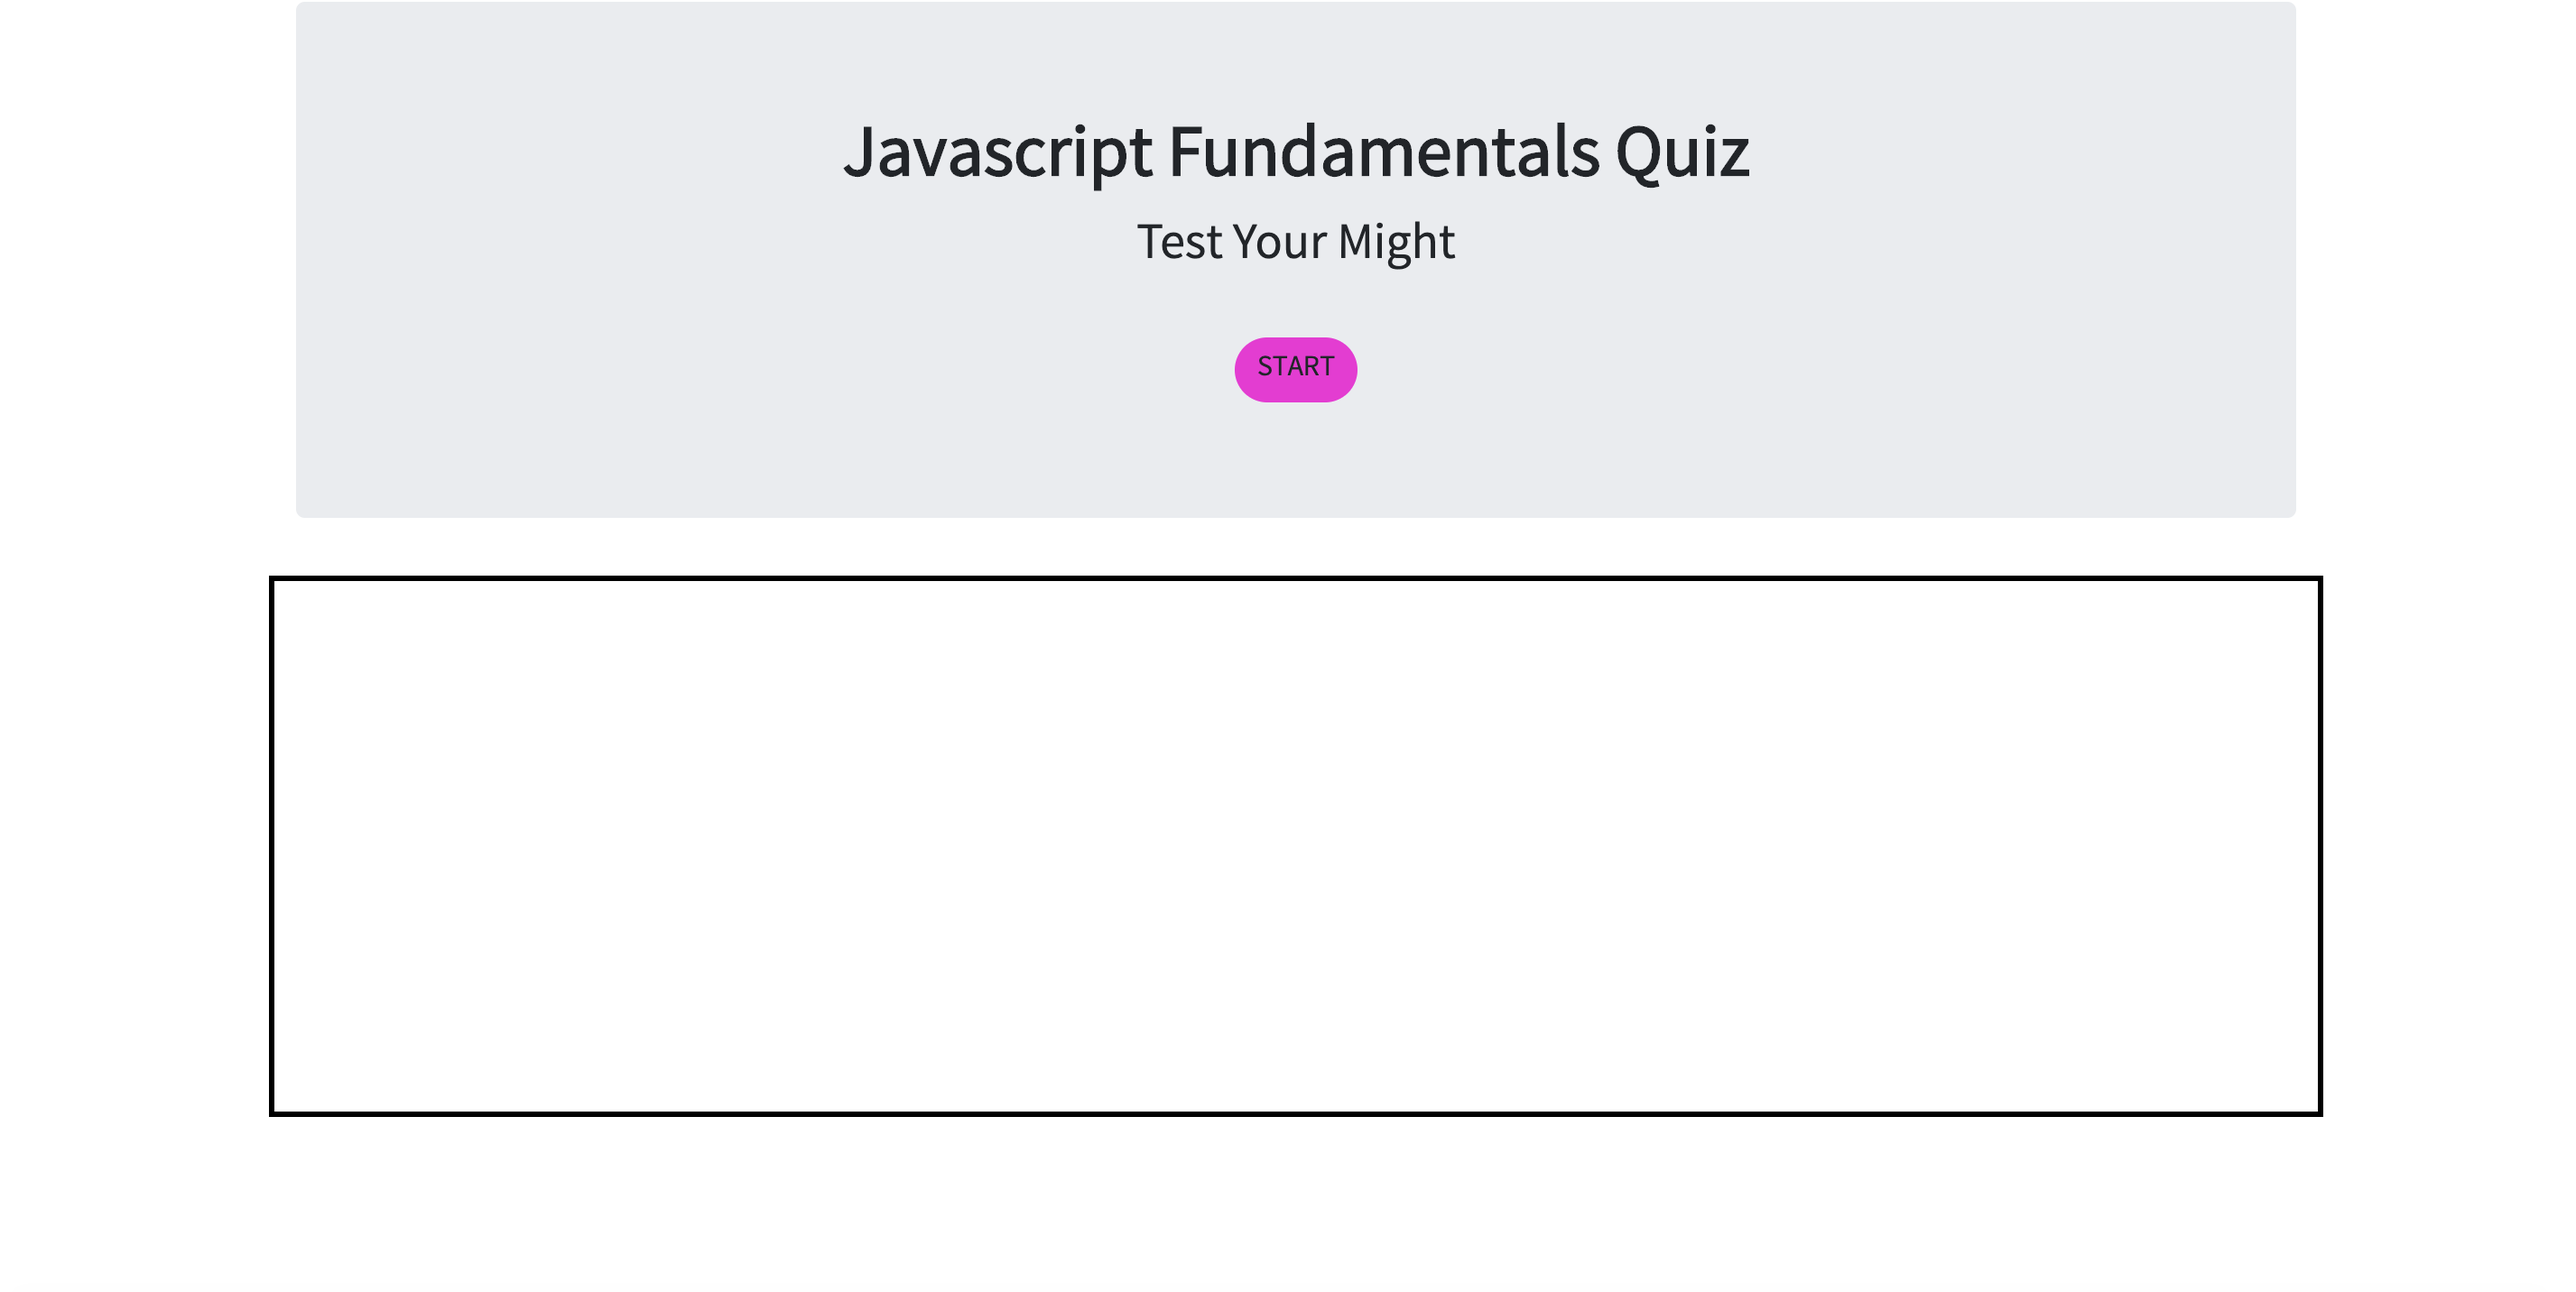
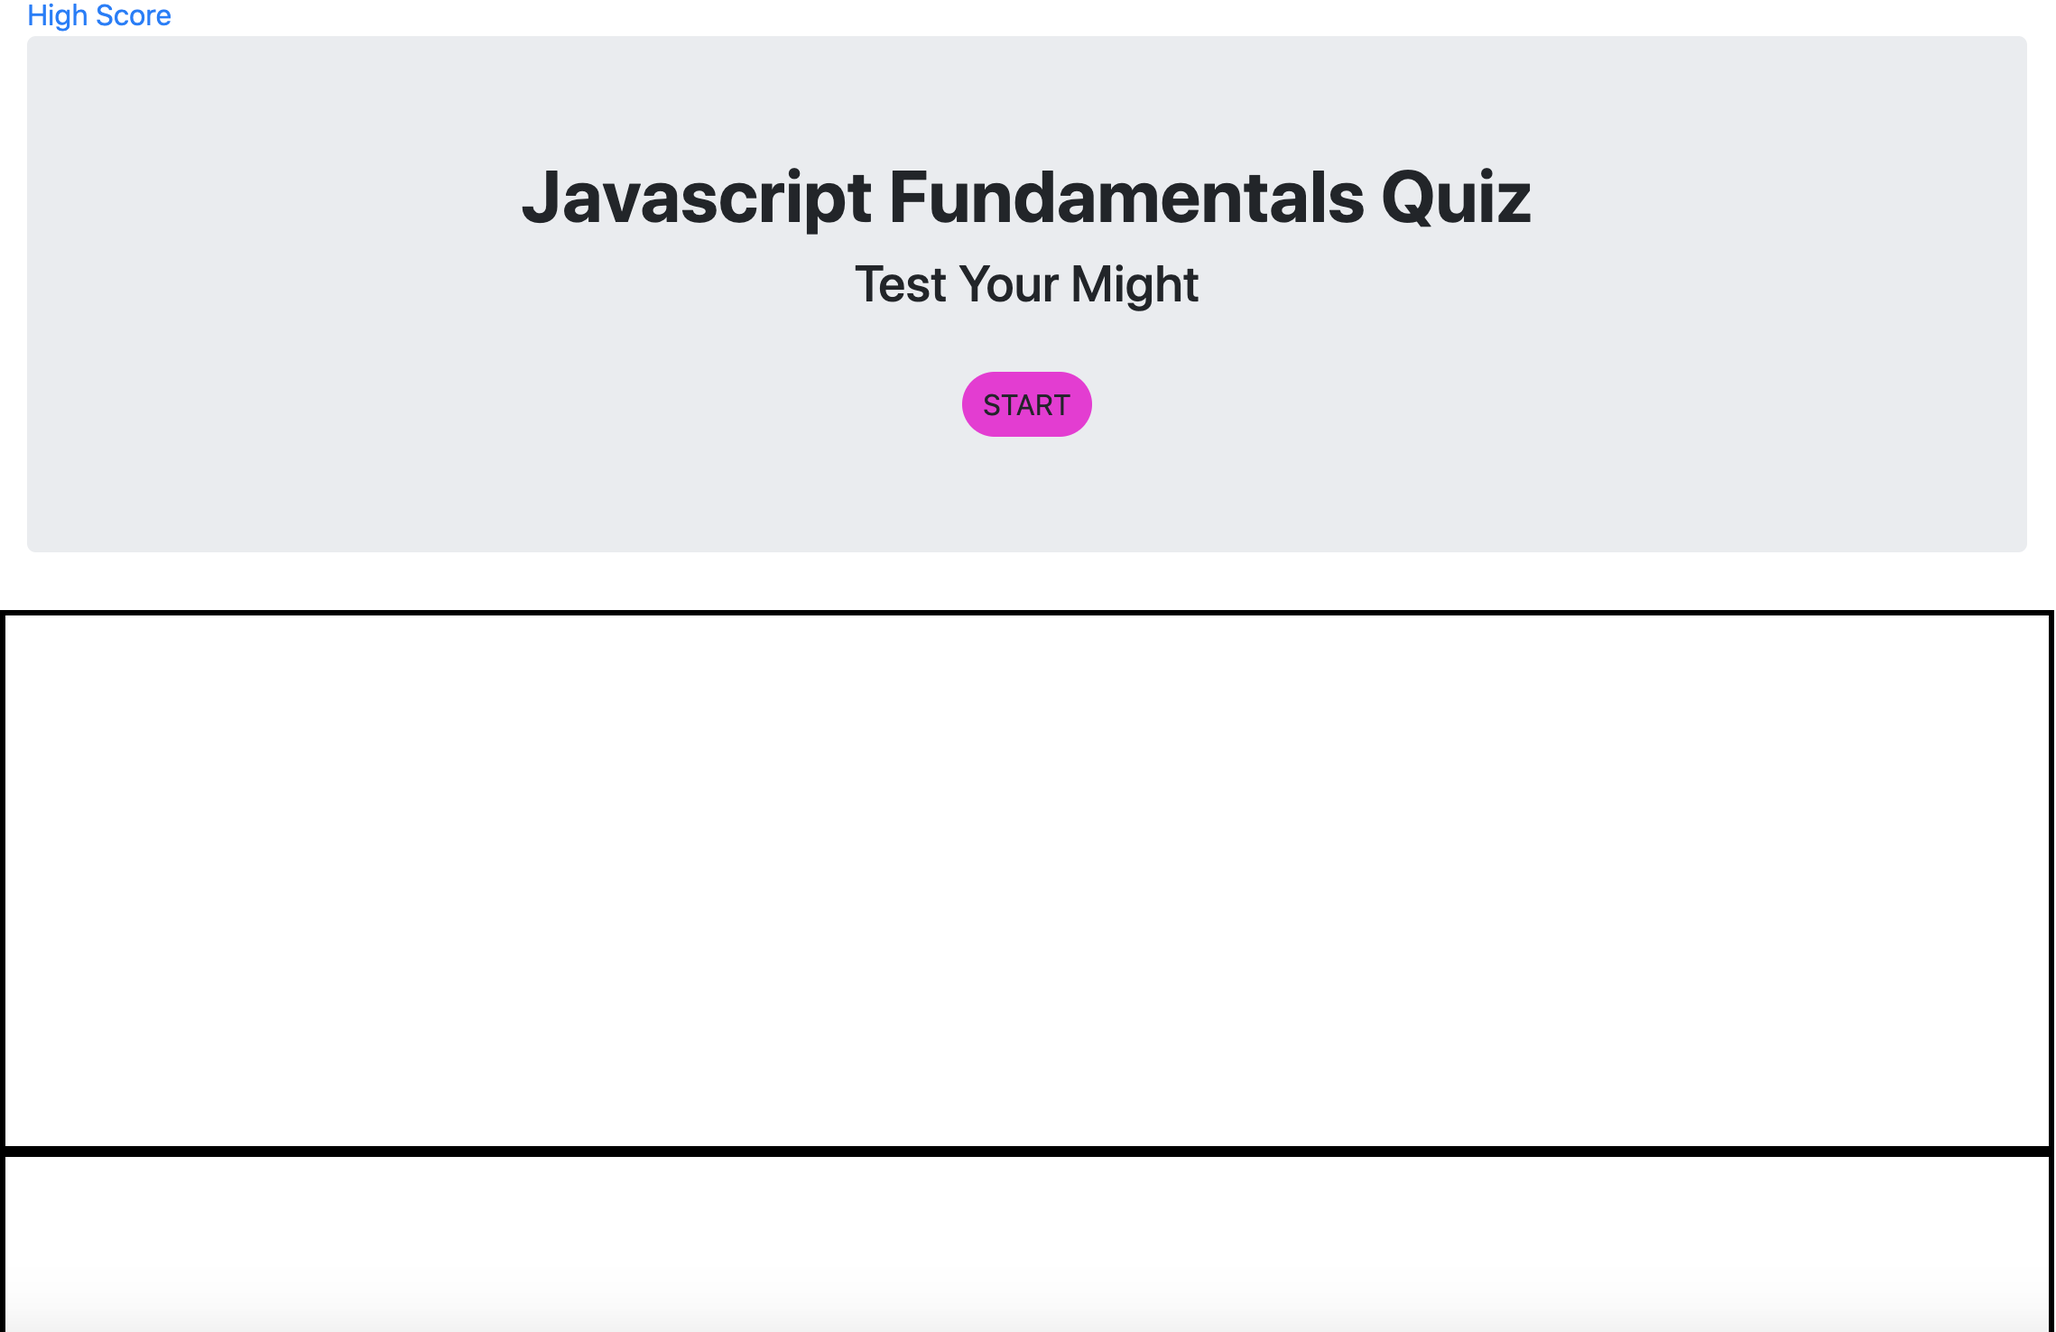
updated png

diff --git a/README.md b/README.md
@@ -1,6 +1,8 @@
 # jsfundamentalsquiz
 
-This quiz was designed to to one's basic knwoeldge of certain aspects of the Javascript programming language. It was designed to be answered within 100 seconds, with each incorrect answer subtracting 10 seconds from the overall time.
+This quiz was designed to to one's basic knowledge of certain aspects of the Javascript programming language. It was designed to be answered within 100 seconds, with each incorrect answer subtracting 10 seconds from the overall time.
+
+This project was recently updated and is now capable of storing user scores. Additional issues with the timer were also fixed.
 
 ![Screenshot of application](Assets/jsfundamentalsquiz_ss.png)
 
